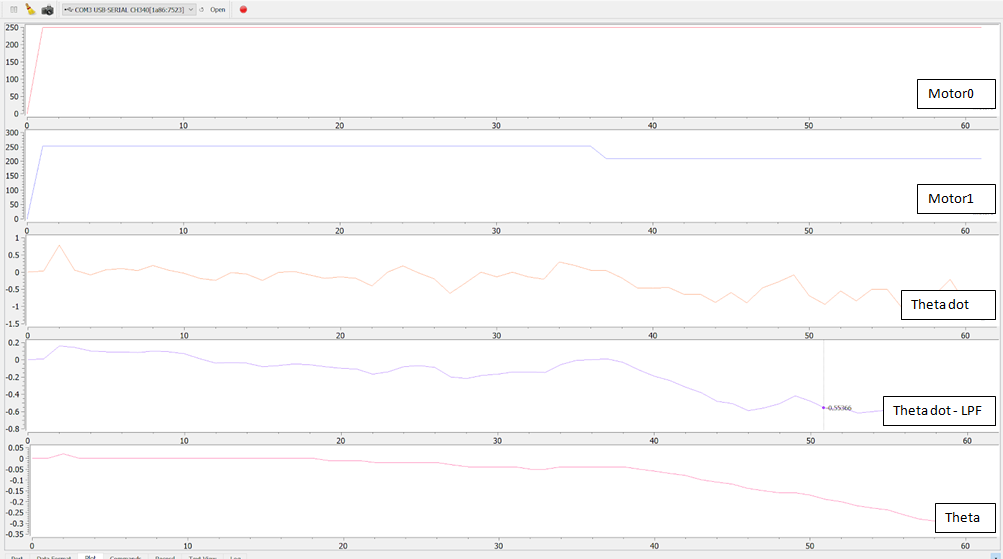
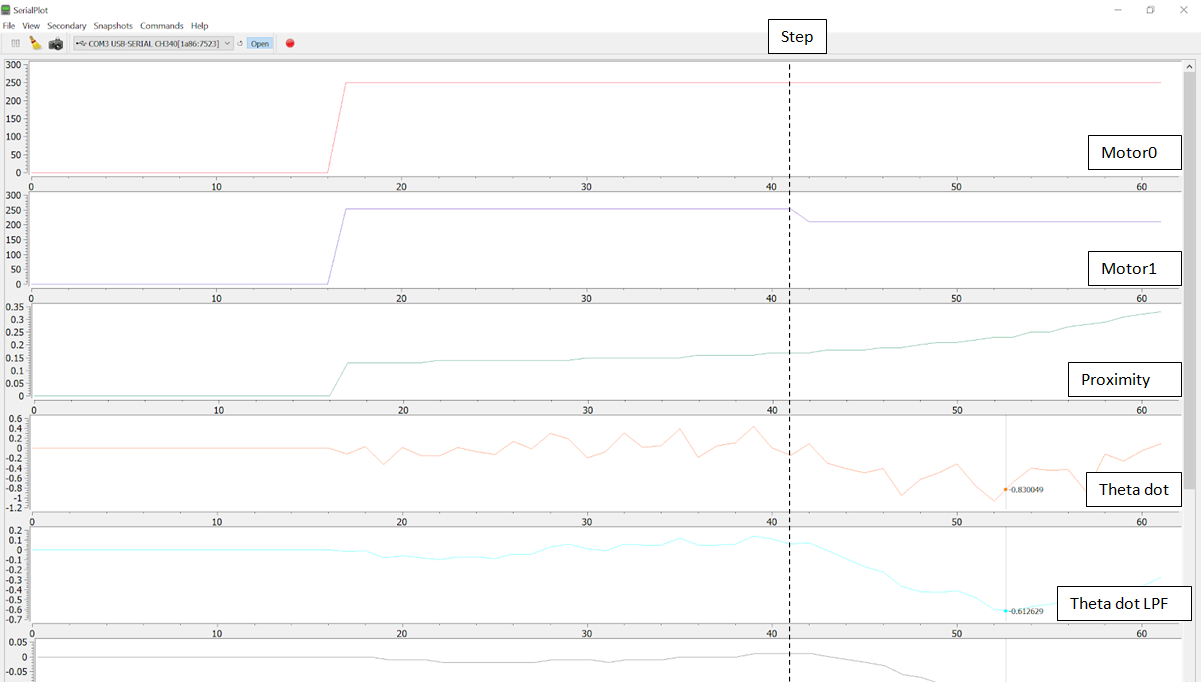
a

diff --git a/index.html b/index.html
@@ -4558,34 +4558,54 @@ x  axis step: -1  to  (14, 7)
     26     | 22
     27     | 20
 </pre>
-                                    <p>Using this, I was able to fit this to a function that allowed me to translate from proximity values to distances from the wall</p>
+                                    <p>Using this, I was able to fit this to a function that allowed me to translate from proximity values to distances from the wall:</p>
                                     <img class="img-fluid d-block mx-auto" src="assets/img/lab11/fit.PNG" alt="" />
                                     <p>I put this in my Arduino code as:</p>
                                     <pre>
     Dist( in meter)= 69.9294 * pow(proxValue , -0.34455) /100.0 
                                     </pre>
-                                    <p>I then wrote some code to let me debug, record, and easily add functionality to the robot as well, that will be described below</p>
+                                    <p>I then wrote some code to let me debug, record, and easily add functionality to the robot as well, that will be described below.</p>
                                     <p>To first figure out the system in state space, I made some of the assumptions stated in the lab such as assuming that the only input was the torque around the robot axis and that the robot velocity was always set to the upper limit. Our
                                         state space then includes the distance to the wall (d), the orientation of the robot (theta), and the angular velocity of the robot (thetadot). I tested the system with a step response as shown:
-
                                     </p>
                                     <pre>
 Step Response Procedure
-- Run both motors at full speed (at motor level = 254) for 1000 ms
+- Calibrate the motor power level, so the car can move in straight line 
+    Motor0: 251
+    Motor1: 254
+- Ramp up the car at full speed for 400 ms 
+- Run both motors at full speed for 500 ms, start to collect data
 - Have the proximity parameter be at around 15 cm (similar to what we expect in the final controller)
-- Turn the car right (motor0 at full speed, motor1 at 210) for 500 ms
-- Theta dot is the gyroscope reading
-- Theta is the yaw calculated as follows through integration from the gyroscope:
+- Turn the car right (motor0 at full speed, motor1 at 210) for 500 ms, and collect data
+- For the measurement (using a USB cable with SerialPlotter instead of using Bluetooth):
+    Theta_dot is the Gyroscope z axis reading:
+
+        myGyroZ = myICM.gyrZ() * 3.1415926 /180;
+
+    Theta_dot is noisy, so I also calculated the LPF output:
+
+        float alpha = 0.2;
+        static float myGyroZ_LPF = 0;
+        static float old_myGyroZ_LPF = 0;
+        myGyroZ_LPF = alpha * myGyroZ + ( 1 - alpha) *  old_myGyroZ_LPF ;
+        old_myGyroZ_LPF = myGyroZ_LPF;
+
+Theta is the angle calculated as follows:
+ 
         static long last_time = 0;
-        myGyroZ = myICM.gyrZ();
+        myGyroZ = myICM.gyrZ()* 3.1415926 /180;
         float dt = (millis()-last_time)/1000.;
         last_time = millis();    
         myYaw += + myGyroZ*dt;
+
                                     </pre>
 <p>Plotting this data that I received, I got the following graph. I can see from it that the angular states behave like a second order system and that we can't control theta directly, though we can control thetadot directly.  </p>         
 <img class="img-fluid d-block mx-auto" src="assets/img/lab11/step.PNG" alt="" />
+<iframe src="https://youtube.com/embed/1bmqF8VSds4"
+width="560" height="315" frameborder="0" allowfullscreen></iframe> 
+
 <p>The data was collected using a USB cable with the Serial Plotter as opposed to Bluetooth since I just needed the data
-    at the end of the run and it allowed me to finish the lab in time. I also captured the max speed using the ToF sensor since it has proven to provide very accurate data (as shown when doing localization in previous labs). I found the max speed to be around 3.3 m/s 
+    at the end of the run. I also captured the max speed using the ToF sensor since it has proven to provide very accurate data (as shown when doing localization in previous labs). I found the max speed to be around 3.3 m/s 
     using the following code when the robot had finished accelerating:
 </p>  
 <pre><code>
@@ -4596,19 +4616,19 @@ Step Response Procedure
         float tofSpeed =  abs(last_dist - dist)/(1000 * dt);
         last_dist = dist;
 </code></pre>
-                                    <p>Along with that, I figured out the max motor levels that would allow the robot to go in a straight line just for reference. I got Motor0: 249 and Motor1:254, showing a slight
+                                    <p>Along with that, I figured out the max motor levels that would allow the robot to go in a straight line just for reference. I got Motor0: 251 and Motor1:254, showing a slight
                                         asymmetry in the strength of the motors. 
                                     </p>
                                     <p>I was also to obtain find the drag (d) and inertia (I) using the equations from lecture: </p>
                                     <img class="img-fluid d-block mx-auto" src="assets/img/lab11/equations.PNG" alt="" />
 <pre>
     Uss = 250 - 210 = 40
-    Theta_dot_ss = -0.55
-    d = -U_ss/Theta_dot_ss = 40/-0.55 = 72.727
+    Theta_dot_ss = -0.54
+    d = -U_ss/Theta_dot_ss = 40/-0.54 = 75.926
 
     Sampling time = 20 ms for each sample
-    Rise time is around 8 samples = 0.02 * 8 = 0.16 seconds
-    I = -d * risetime / ln(0.1) = 5.054
+    Rise time is around 11.25 samples = 0.225 s
+    I = -d * risetime / ln(0.1) = 7.4192
 </pre>
 <p>I then had the Python code for the LQR calculation:</p>
 <pre>
@@ -4618,9 +4638,14 @@ Step Response Procedure
         eigVals, eigVecs = scipy.linalg.eig(A-B*K)     
         return K, X, eigVals
     
-    v = 3.3
-    d = 77.727
-    I = 5.054
+    # physical constants
+    v = 2.7
+    t = 0.225
+    uss = 251-210
+    theta_dot_ss = -0.54
+    
+    d = - (uss/theta_dot_ss)
+    I = - d * t /math.log(0.1)
     
     A = np.matrix([
         [0.0, v, 0.0],
@@ -4637,14 +4662,15 @@ Step Response Procedure
     Q = np.matrix([
         [100.,   .0,   .0],
         [.0,    10.0,   .0],
-        [.0,     .0,    10.],
+        [.0,     .0,    1.],
     ])
     
     R = np.matrix([0.1])
     
     K, X, eig = lqr(A, B, Q, R)
     
-    K =  [31.622776601683626, 130.69723874725537, 8.638251909259512]
+    K =  [31.622776601683636, 122.38333032510602, 11.198803053918546]
+    
     
     U = -Kx
 </pre>
